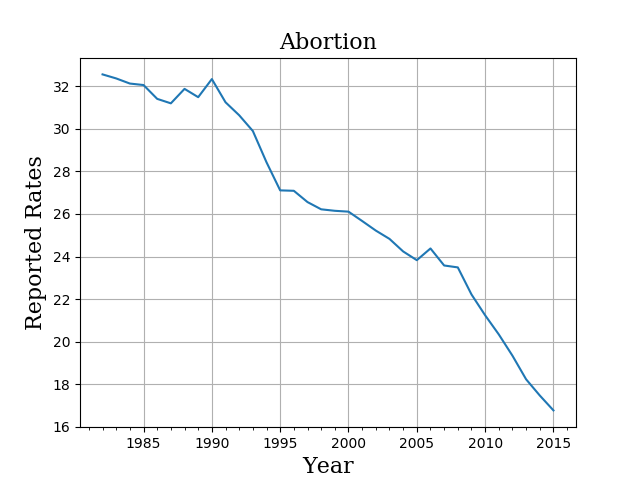
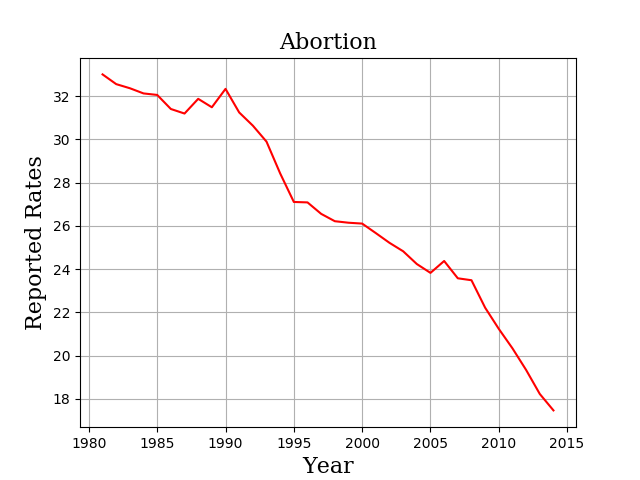
[DONE]plot all the deatures except crime rate

diff --git a/stationaryExamination.py b/stationaryExamination.py
@@ -4,6 +4,8 @@ import pandas as pd
 from pandas import Series
 from matplotlib import pyplot
 
+
+## ---------------------------------------------
 # plot and see trend
 font = {'family': 'serif',
         'color':  'black',
@@ -11,20 +13,74 @@ font = {'family': 'serif',
         'size': 16,
         }
 
-series = Series.from_csv('abortion_NYC.csv',header=0)
-series.plot()
-pyplot.title('Abortion', fontdict=font)
-pyplot.xlabel('Year',fontdict=font)
-pyplot.ylabel('Reported Rates',fontdict=font)
-pyplot.grid(True)
-pyplot.show()
+# TODO: read csv file and make a table
+# series = Series.from_csv('regression.csv',header=0)
+# print(series)
+# exit()
+# series.plot()
+# pyplot.title('Abortion', fontdict=font)
+# pyplot.xlabel('Year',fontdict=font)
+# pyplot.ylabel('Reported Rates',fontdict=font)
+# pyplot.grid(True)
+# pyplot.show()
 
-# log transformation -before parametric statistical test
-# not now
+def main():
+    data = pd.read_csv("regression.csv", names=['year','abortion','dowjones','incarceration','crime_rate'])
+    df = pd.DataFrame(data)
+
+    ## abortion
+    # Plot
+    pyplot.plot(df['year'],df['abortion'],'r')
+    pyplot.title('Abortion', fontdict=font)
+    pyplot.xlabel('Year',fontdict=font)
+    pyplot.ylabel('Reported Rates',fontdict=font)
+    pyplot.grid(True)
+    pyplot.show()
+    # adf_test()
+    adf_test(df['abortion'])
+    # kpss_test()
+    kpss_test(df['abortion'])
+
+
+    ## dowjones
+    pyplot.plot(df['year'],df['dowjones'],'y')
+    pyplot.title('Dow Jones Industrial Average', fontdict=font)
+    pyplot.xlabel('Year',fontdict=font)
+    pyplot.ylabel('Index Average',fontdict=font)
+    pyplot.grid(True)
+    pyplot.show()
+    # adf_test()
+    adf_test(df['dowjones'])
+    # kpss_test()
+    kpss_test(df['dowjones'])
+
+
+    # incarceration
+    pyplot.plot(df['year'],df['incarceration'],'b')
+    pyplot.title('Incarceration', fontdict=font)
+    pyplot.xlabel('Year',fontdict=font)
+    pyplot.ylabel('',fontdict=font)
+    pyplot.grid(True)
+    pyplot.show()
+    # adf_test()
+    adf_test(df['incarceration'])
+    # kpss_test()
+    kpss_test(df['incarceration'])
+
+
+main()
+
+# print(df["year"])
+
+
+exit()
+
+# TODO: log transformation -before parametric statistical test
 
 # ADF (Augmented Dickey Fuller) Test
 
-#define function for ADF test
+## ---------------------------------------------
+# define function for ADF test
 from statsmodels.tsa.stattools import adfuller
 def adf_test(timeseries):
     #Perform Dickey-Fuller test:
@@ -35,15 +91,9 @@ def adf_test(timeseries):
        dfoutput['Critical Value (%s)'%key] = value
     print (dfoutput)
 
-adf_test(series)
 
 
-
-
-
-
-
-
+## ---------------------------------------------
 # KPSS (Kwiatkowski-Phillips-Schmidt-Shin) Test
 
 from statsmodels.tsa.stattools import kpss
@@ -60,4 +110,7 @@ def kpss_test(timeseries):
 kpss_test(series)
 
 
-# trend stationary to strict stationary
+## ---------------------------------------------
+# Stationary process
+# Trend differencing
+
